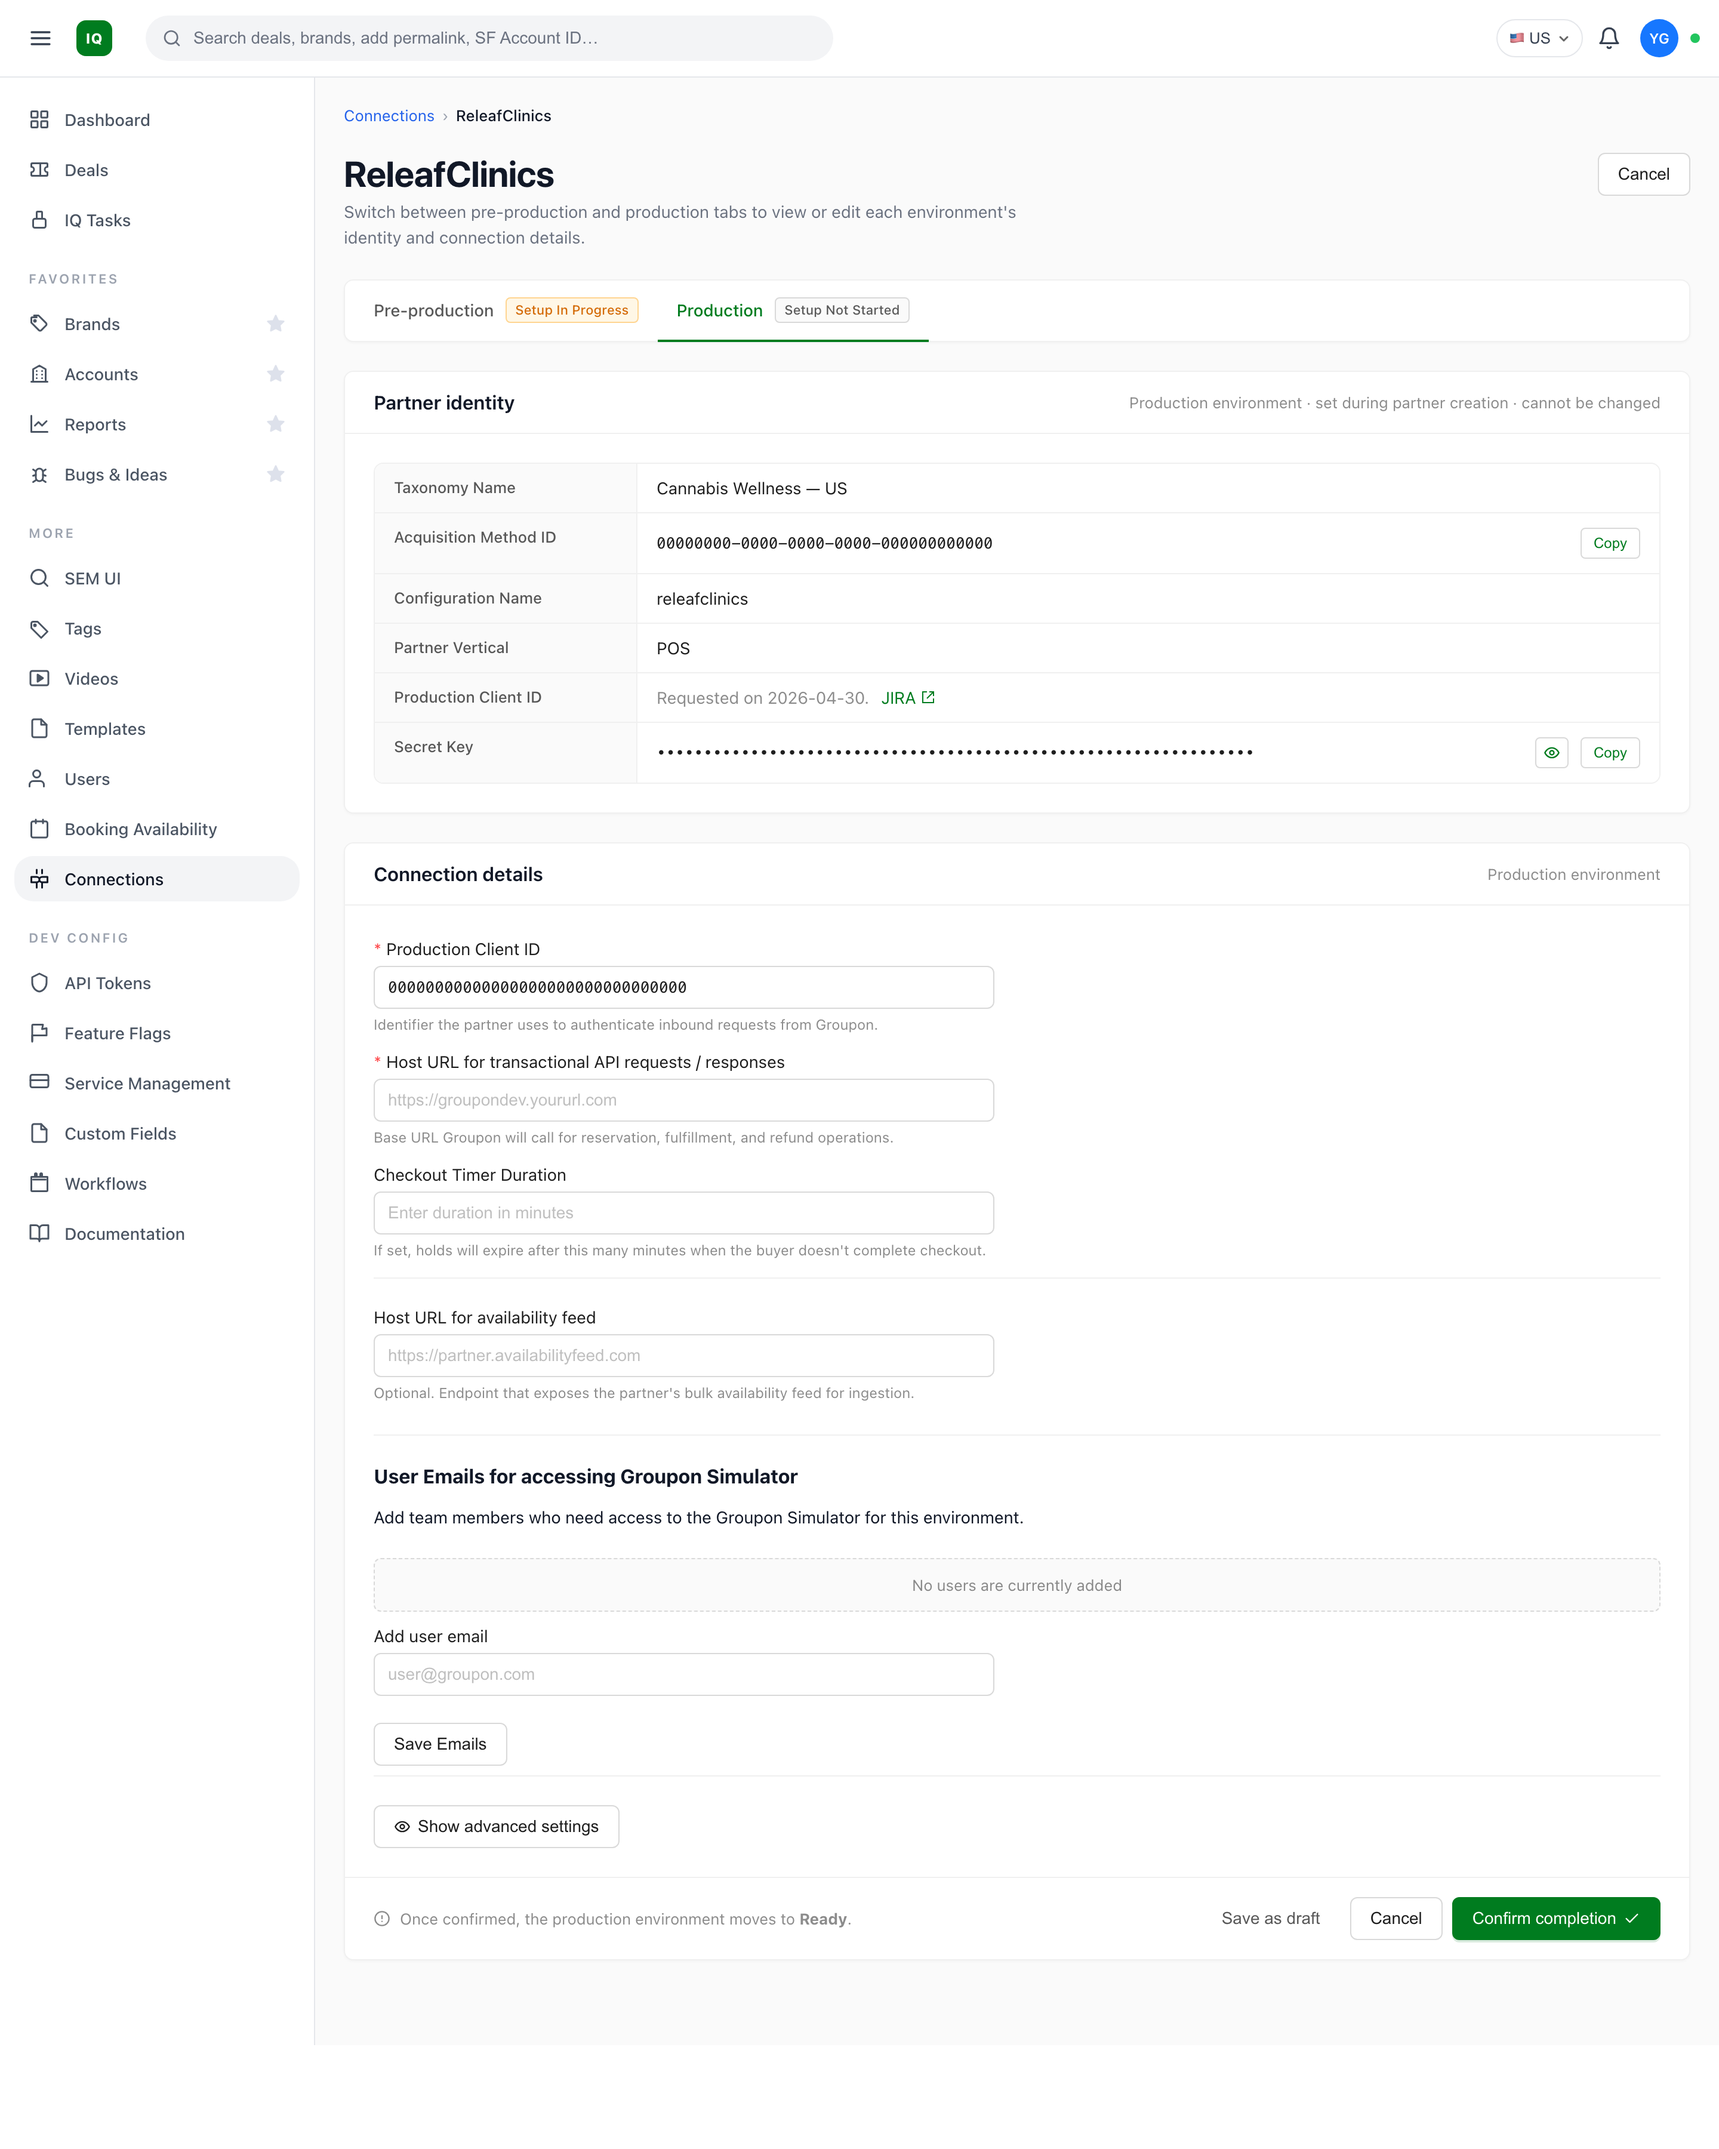
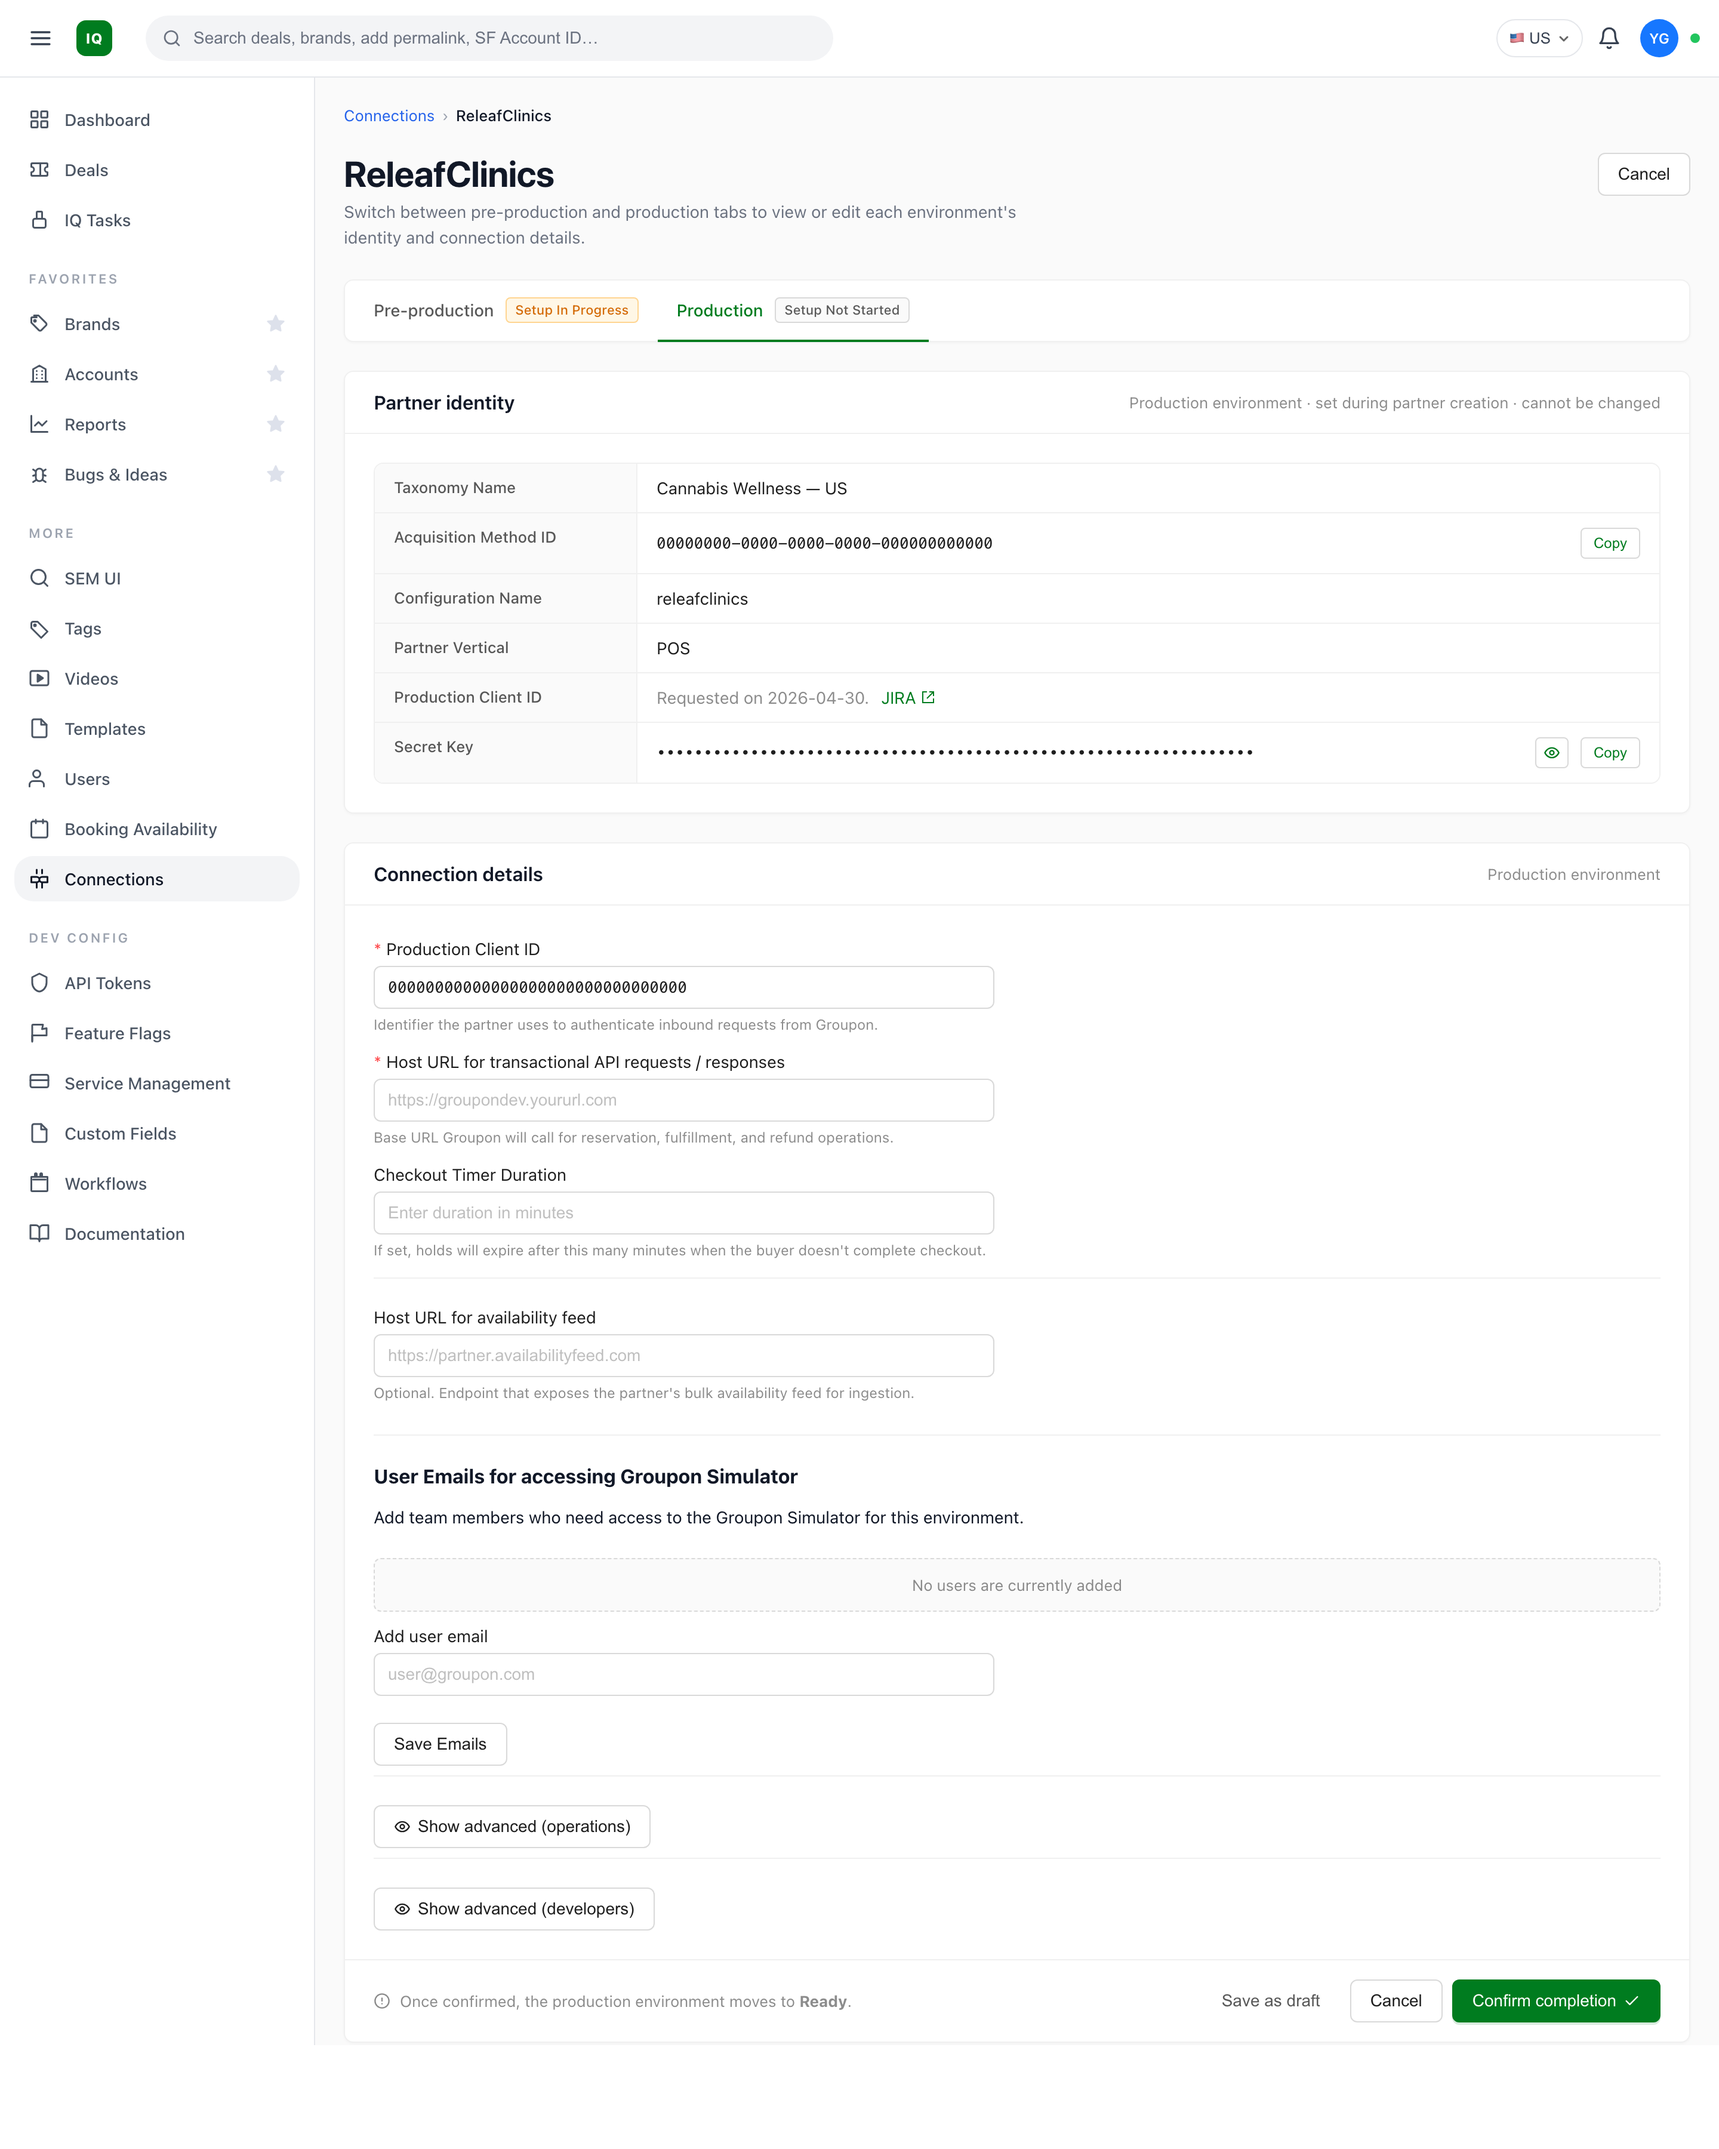
Edit page: separate Show/Hide buttons for Operations and Developers
Replaced the single combined 'Show advanced settings' toggle with two
independent toggles, each controlling its own section:

- 'Show advanced (operations)' — reveals only the Operations kv table
  (isMPFPartner, isGIP2Partner, TransactionalConnectTimeout,
  IngestionConnectTimeout).
- 'Show advanced (developers)' — reveals only the Edit configuration
  button (which opens the JSON modal).

Each toggle is independent: opening Operations does not open Developers
and vice versa. Both default to hidden and use the same eye / eye-off
icon swap as the Secret Key toggle.

JS refactored into a small wireAdvancedToggle(btnId, sectionId, iconId,
labelId, suffix) helper used by both, so the two buttons share the same
behavior without duplication.

Changed region(s): [[0.8438, 0.8711, 0.9688, 0.9644], [0.2188, 0.84, 0.375, 0.9022]]

diff --git a/iq-edit-partner-config-mockup.html b/iq-edit-partner-config-mockup.html
@@ -598,15 +598,13 @@
 
             <div class="divider"></div>
 
-            <button id="toggleAdvancedBtn" class="btn" style="width: fit-content;">
-              <svg id="toggleAdvancedIcon" width="14" height="14" viewBox="0 0 24 24" fill="none" stroke="currentColor" stroke-width="2" stroke-linecap="round" stroke-linejoin="round"><path d="M2 12s3-7 10-7 10 7 10 7-3 7-10 7S2 12 2 12z"/><circle cx="12" cy="12" r="3"/></svg>
-              <span id="toggleAdvancedLabel">Show advanced settings</span>
+            <!-- Advanced (Operations) — collapsed by default -->
+            <button id="toggleAdvancedOpsBtn" class="btn" style="width: fit-content;">
+              <svg id="toggleAdvancedOpsIcon" width="14" height="14" viewBox="0 0 24 24" fill="none" stroke="currentColor" stroke-width="2" stroke-linecap="round" stroke-linejoin="round"><path d="M2 12s3-7 10-7 10 7 10 7-3 7-10 7S2 12 2 12z"/><circle cx="12" cy="12" r="3"/></svg>
+              <span id="toggleAdvancedOpsLabel">Show advanced (operations)</span>
             </button>
 
-            <div id="advancedSections" style="display: none;">
-
-              <div class="divider"></div>
-
+            <div id="advancedOpsSection" style="display: none; margin-top: 16px;">
               <h3 class="form-section-title">Advanced (Operations)</h3>
               <p class="form-section-help">Operational settings used by the Connection runtime. Managed by the Operations team.</p>
 
@@ -621,16 +619,23 @@
                   <!-- rows populated by JS based on the active env -->
                 </tbody>
               </table>
+            </div>
 
-              <div class="divider"></div>
+            <div class="divider"></div>
 
+            <!-- Advanced (Developers) — collapsed by default -->
+            <button id="toggleAdvancedDevBtn" class="btn" style="width: fit-content;">
+              <svg id="toggleAdvancedDevIcon" width="14" height="14" viewBox="0 0 24 24" fill="none" stroke="currentColor" stroke-width="2" stroke-linecap="round" stroke-linejoin="round"><path d="M2 12s3-7 10-7 10 7 10 7-3 7-10 7S2 12 2 12z"/><circle cx="12" cy="12" r="3"/></svg>
+              <span id="toggleAdvancedDevLabel">Show advanced (developers)</span>
+            </button>
+
+            <div id="advancedDevSection" style="display: none; margin-top: 16px;">
               <h3 class="form-section-title">Advanced (Developers)</h3>
               <p class="form-section-help">Direct access to the complete configuration JSON. This bypasses the form fields above — use carefully.</p>
               <button id="editConfigBtn" class="btn" style="width: fit-content;">
                 <svg width="14" height="14" viewBox="0 0 24 24" fill="none" stroke="currentColor" stroke-width="2" stroke-linecap="round" stroke-linejoin="round"><path d="M12 20h9"/><path d="M16.5 3.5a2.121 2.121 0 1 1 3 3L7 19l-4 1 1-4z"/></svg>
                 Edit configuration
               </button>
-
             </div>
 
           </div>
@@ -962,13 +967,8 @@
   }
 
   // ===== Show / Hide Advanced sections =====
-  // Same eye-icon pattern as the Secret Key toggle: hidden by default, click
-  // to reveal Advanced (Operations) + Advanced (Developers).
-  const toggleAdvancedBtn   = document.getElementById('toggleAdvancedBtn');
-  const advancedSections    = document.getElementById('advancedSections');
-  const toggleAdvancedIcon  = document.getElementById('toggleAdvancedIcon');
-  const toggleAdvancedLabel = document.getElementById('toggleAdvancedLabel');
-
+  // Two independent toggles — one for Operations, one for Developers.
+  // Same eye-icon pattern as the Secret Key toggle.
   const EYE_PATH =
     '<path d="M2 12s3-7 10-7 10 7 10 7-3 7-10 7S2 12 2 12z"/><circle cx="12" cy="12" r="3"/>';
   const EYE_OFF_PATH =
@@ -977,20 +977,32 @@
     '<path d="M14.12 14.12a3 3 0 1 1-4.24-4.24"/>' +
     '<line x1="1" y1="1" x2="23" y2="23"/>';
 
-  let advancedShown = false;
-  function applyAdvancedVisibility() {
-    if (!advancedSections || !toggleAdvancedIcon || !toggleAdvancedLabel) return;
-    advancedSections.style.display    = advancedShown ? '' : 'none';
-    toggleAdvancedIcon.innerHTML       = advancedShown ? EYE_OFF_PATH : EYE_PATH;
-    toggleAdvancedLabel.textContent    = advancedShown ? 'Hide advanced settings' : 'Show advanced settings';
+  function wireAdvancedToggle(btnId, sectionId, iconId, labelId, suffix) {
+    const btn     = document.getElementById(btnId);
+    const section = document.getElementById(sectionId);
+    const icon    = document.getElementById(iconId);
+    const lbl     = document.getElementById(labelId);
+    if (!btn || !section || !icon || !lbl) return;
+    let shown = false;
+    function apply() {
+      section.style.display = shown ? '' : 'none';
+      icon.innerHTML        = shown ? EYE_OFF_PATH : EYE_PATH;
+      lbl.textContent       = (shown ? 'Hide ' : 'Show ') + suffix;
+    }
+    btn.addEventListener('click', () => { shown = !shown; apply(); });
+    apply();
   }
-  if (toggleAdvancedBtn) {
-    toggleAdvancedBtn.addEventListener('click', () => {
-      advancedShown = !advancedShown;
-      applyAdvancedVisibility();
-    });
-  }
-  applyAdvancedVisibility();
+
+  wireAdvancedToggle(
+    'toggleAdvancedOpsBtn', 'advancedOpsSection',
+    'toggleAdvancedOpsIcon', 'toggleAdvancedOpsLabel',
+    'advanced (operations)'
+  );
+  wireAdvancedToggle(
+    'toggleAdvancedDevBtn', 'advancedDevSection',
+    'toggleAdvancedDevIcon', 'toggleAdvancedDevLabel',
+    'advanced (developers)'
+  );
 
   // Initial render: secret mask + emails + operations for default env
   renderSecret();
